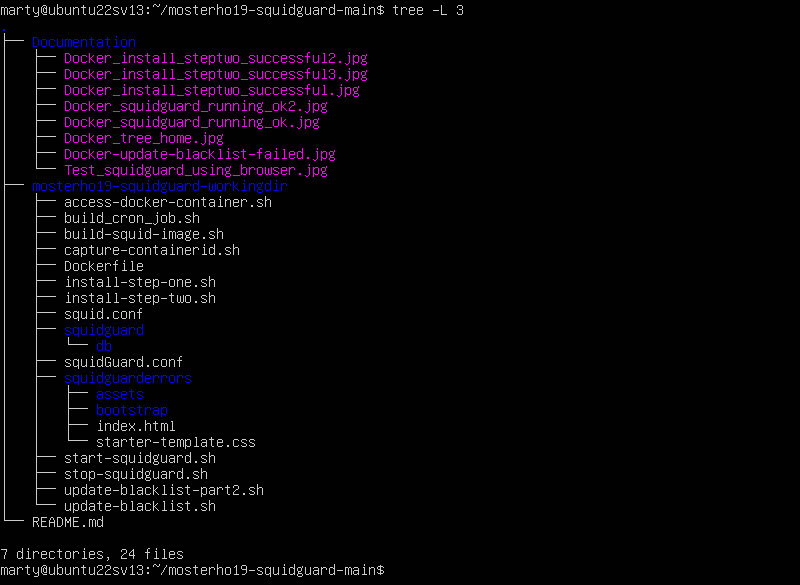
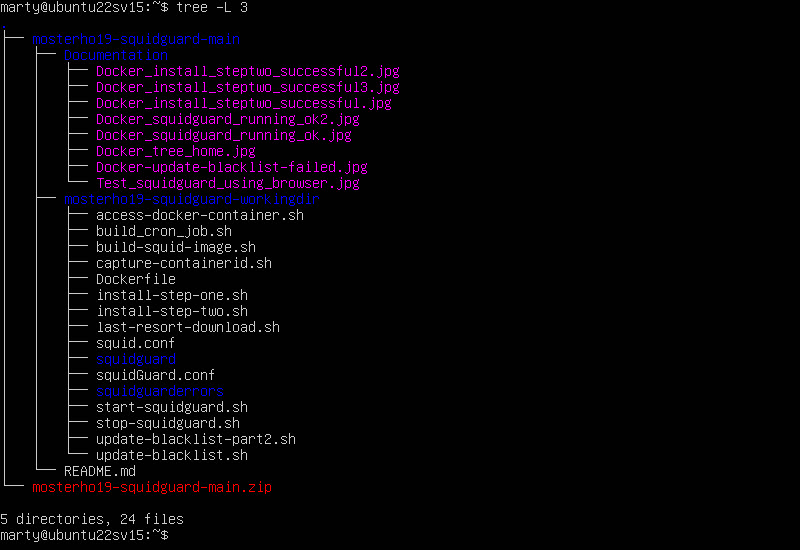
Add files via upload

diff --git a/README.md b/README.md
@@ -9,8 +9,8 @@
 ## Notes
 <ol>
 <li>Please don't perform a Docker pull directly from a terminal session or the Docker website, it won't work as a standalone. Follow this document and use the bash files from the github repository to help build the application for you. 
-<li>UPDATE: just realized /usr/src is not the best place to put scripts. I changed all references to /usr/src to /usr/local/bin.
-<li>UPDATE: I removed all references to using a home folder to run the scripts, but I do reference it when doing certain downloads.
+<li>UPDATE: just realized /usr/src is not the best place to put scripts. I changed all references from /usr/src to /usr/local/bin.
+<li>UPDATE: I removed all references to using a home folder to run the server scripts, but I do reference it when doing certain downloads.
 <li>git is installed on the server, but I'm not familiar enough with git's command lines to pull the repository onto the server. </li>
 <li>If you don't see any pictures in the Docker repository, try the README in the Github repository link.
 </ol>
@@ -30,7 +30,7 @@
 
 ## Install Ubuntu server.
 <ol>
-<li>Install Ubuntu server 22.04.5 LTS. Mine is on VMware Workstation, 4Gb of memory with 1 processor/4 core and 50Gb of disk. 
+<li>Install Ubuntu server 22.04.5 LTS. Mine is on VMware Workstation, 8Gb of memory with 1 processor/4 core and 50Gb of disk. 
 	<ul>
 	<li>Accept defaults during install, except check the box to install ssh-server (you will need this later).</li>
 	</ul>
@@ -103,8 +103,10 @@
 <ol>
 <li>Run "sudo bash install-step-two.sh"
 <li>There will be a series of commands that will display results very fast. 
-<li>If the blacklists.tar.gz download is successful, the script will start building the blacklist binary DB files. It may appear that the system froze when creating a large blacklist, but it is running OK.
-<li>If the blacklists.tar.gz download was successful and the docker containers started, after a few minutes you should see something similar to the second screen capture below.</li>
+<li>If the blacklists.tar.gz download is successful, the script will start building the blacklist binary DB files. 
+<ul>
+<li>It may appear that the system froze when creating a large blacklist, but it is running OK.
+</ul><li>If the blacklists.tar.gz download was successful and the docker containers started, after a few minutes you should see something similar to the second screen capture below.</li>
 
 ![Pic of successful blacklist download](Documentation/Docker_install_steptwo_successful.jpg)
 ---
@@ -124,7 +126,7 @@
 ## Confirm Squidguard is running
 <ol>
 <li>Confirm that the containers are still running by running "sudo docker ps"
-<li>Run "access-docker-container.sh". Confirm you are in the running container by checking your login.
+<li>Run "bash ./access-docker-container.sh". Confirm you are in the running container by checking your login.
 	<ul>
 	<li>The login should look similar to "root@d36c...:/#"... which is the containerID.
 	</li>
